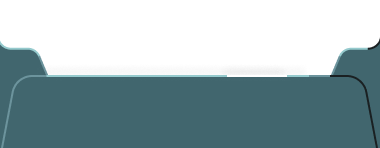
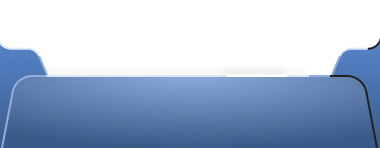
adjust the styling

diff --git a/styles.css b/styles.css
@@ -8,7 +8,7 @@ body {
   font-family: 'Gaegu', cursive;
   -webkit-font-smoothing: antialiased;
   -moz-osx-font-smoothing: grayscale;
-  background-color: #f5f5f5;
+  background-color: #1D2D44;
   overflow-x: hidden;
 }
 
@@ -21,7 +21,7 @@ body {
 .app-container {
   width: 100%;
   max-width: 480px;
-  background-color: #1B3238;
+  background-color: #1D2D44;
   min-height: 100vh;
 }
 
@@ -140,11 +140,11 @@ body {
 
 .nav-buttons {
   position: absolute;
+  bottom: 0;
   /* top: 100px; */
   left: 0;
   right: 0;
   display: flex;
-  bottom: 0;
   justify-content: space-between;
   padding: 20px 30px;
   pointer-events: auto;
